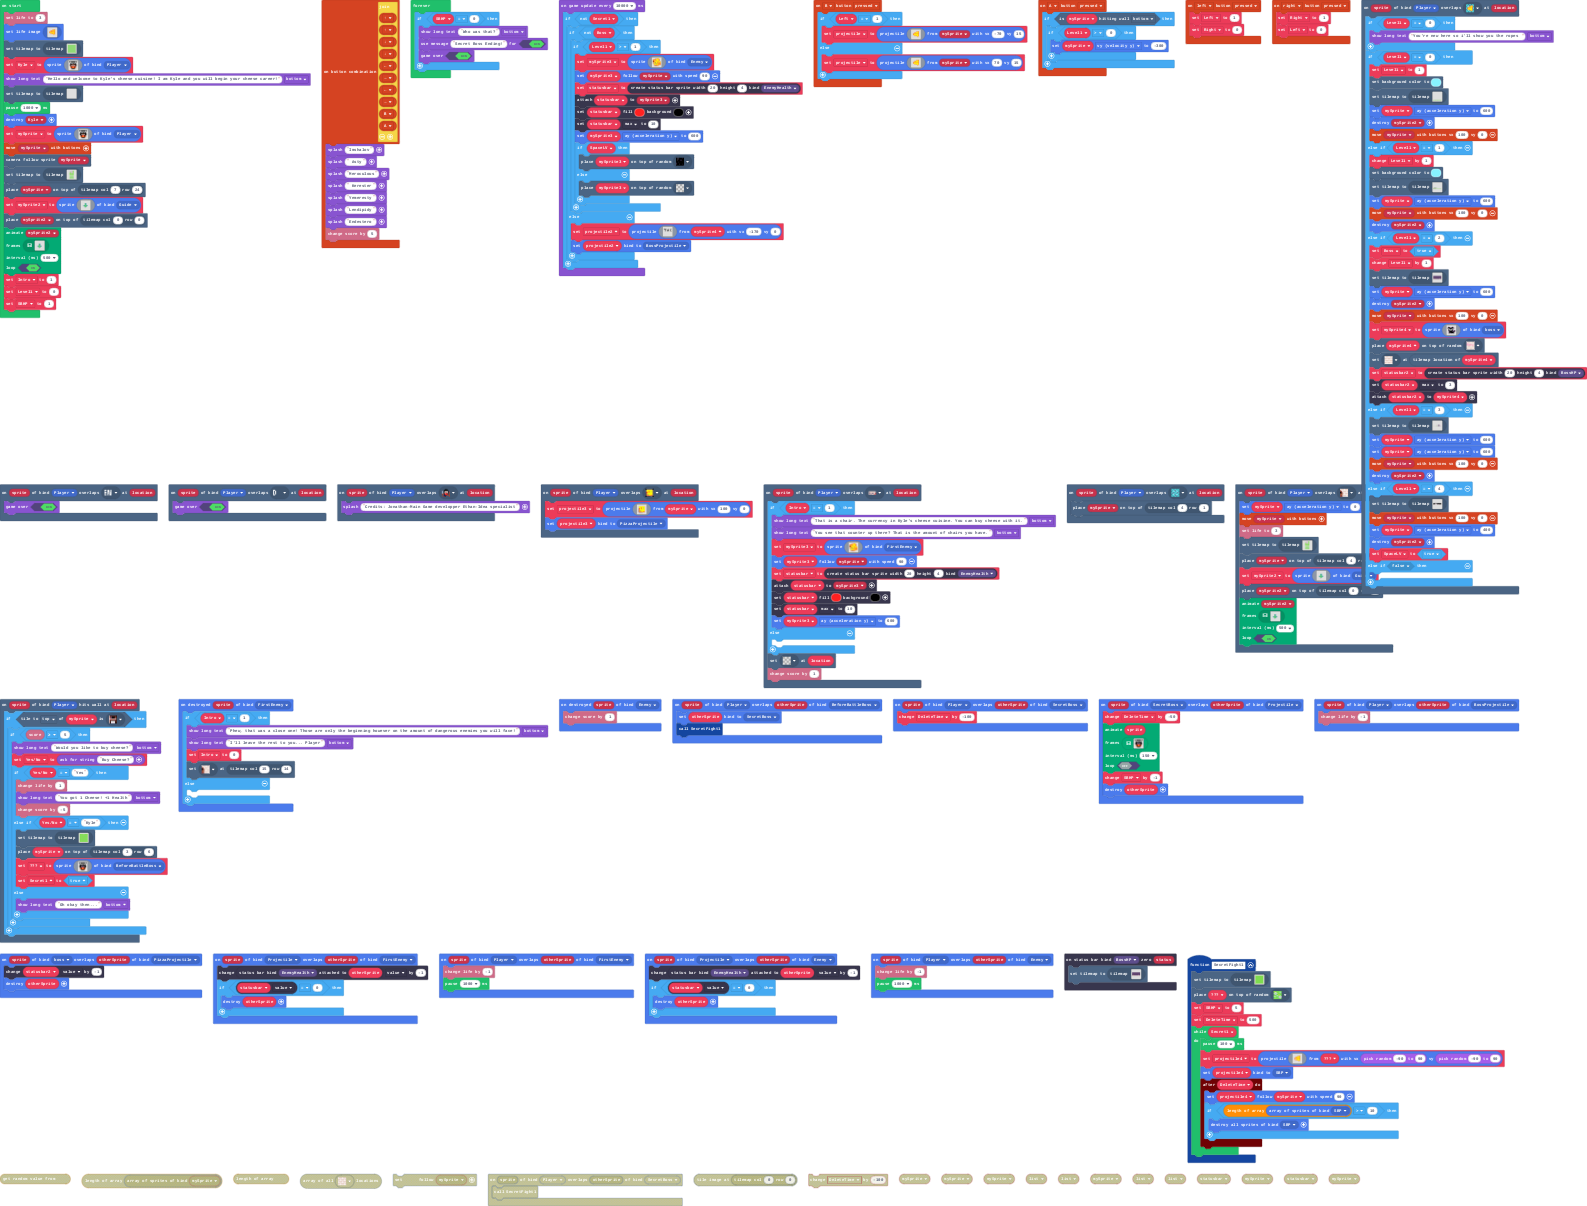
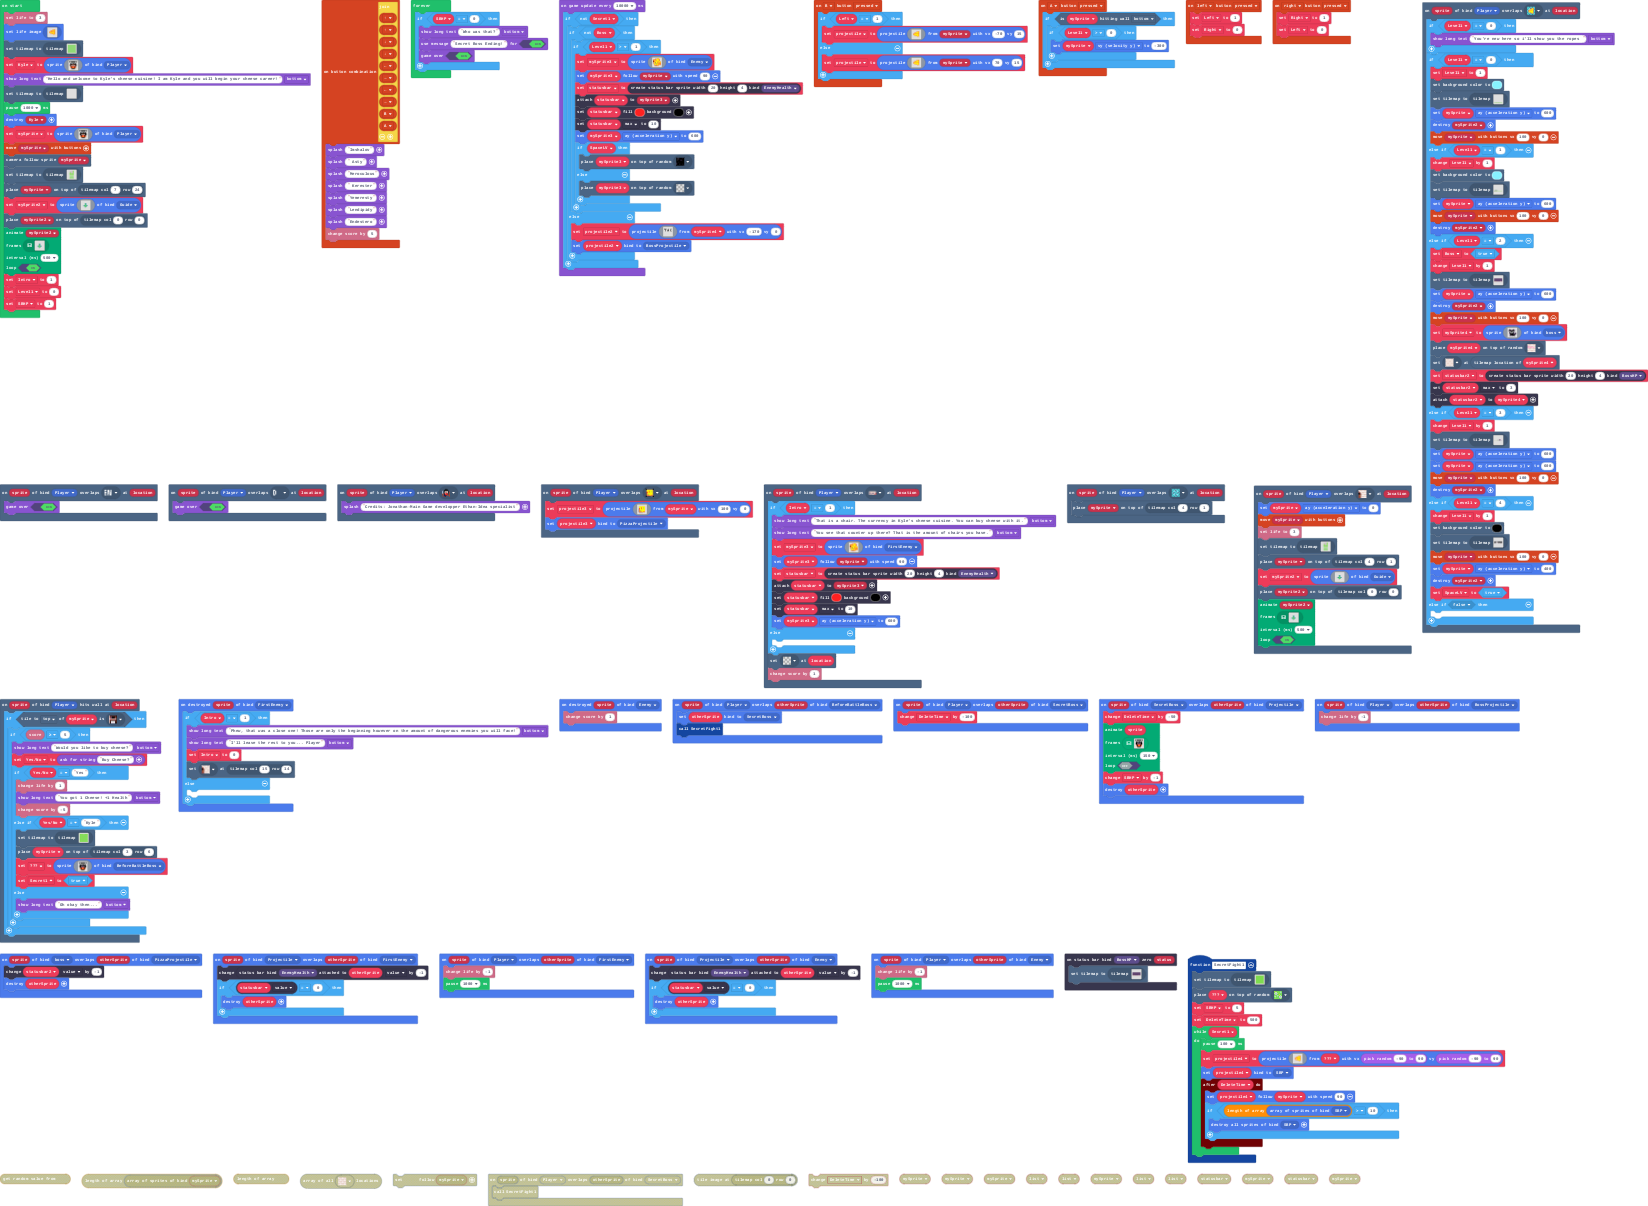
Added a new level, changed the background to black in space

diff --git a/tilemap.g.ts b/tilemap.g.ts
@@ -445,7 +445,7 @@ namespace myTiles {
 ...........................................................................22...
 ............................................................................2...
 ..........................................................................2222..
-................................................................................
+22222222222222222222222222222222222222222222222222222222222222222222222222222222
 `, [myTiles.transparency16,myTiles.tile1,myTiles.tile2,myTiles.tile12,myTiles.tile17,myTiles.tile18,myTiles.tile19,myTiles.tile21,myTiles.tile8,myTiles.tile14,myTiles.tile20,myTiles.tile22,myTiles.tile23], TileScale.Sixteen);
         }
         return null;

diff --git a/main.ts b/main.ts
@@ -59,12 +59,15 @@ scene.onOverlapTile(SpriteKind.Player, assets.tile`myTile1`, function (sprite, l
         statusbar2.max = 3
         statusbar2.attachToSprite(mySprite4)
     } else if (Level1 == 3) {
+        Level1 += 1
         tiles.setCurrentTilemap(tilemap`level21`)
         mySprite.ay = 600
         mySprite.ay = 600
         controller.moveSprite(mySprite, 100, 0)
         sprites.destroy(mySprite2)
     } else if (Level1 == 4) {
+        Level1 += 1
+        scene.setBackgroundColor(15)
         tiles.setCurrentTilemap(tilemap`level10`)
         controller.moveSprite(mySprite, 100, 0)
         mySprite.ay = 400
